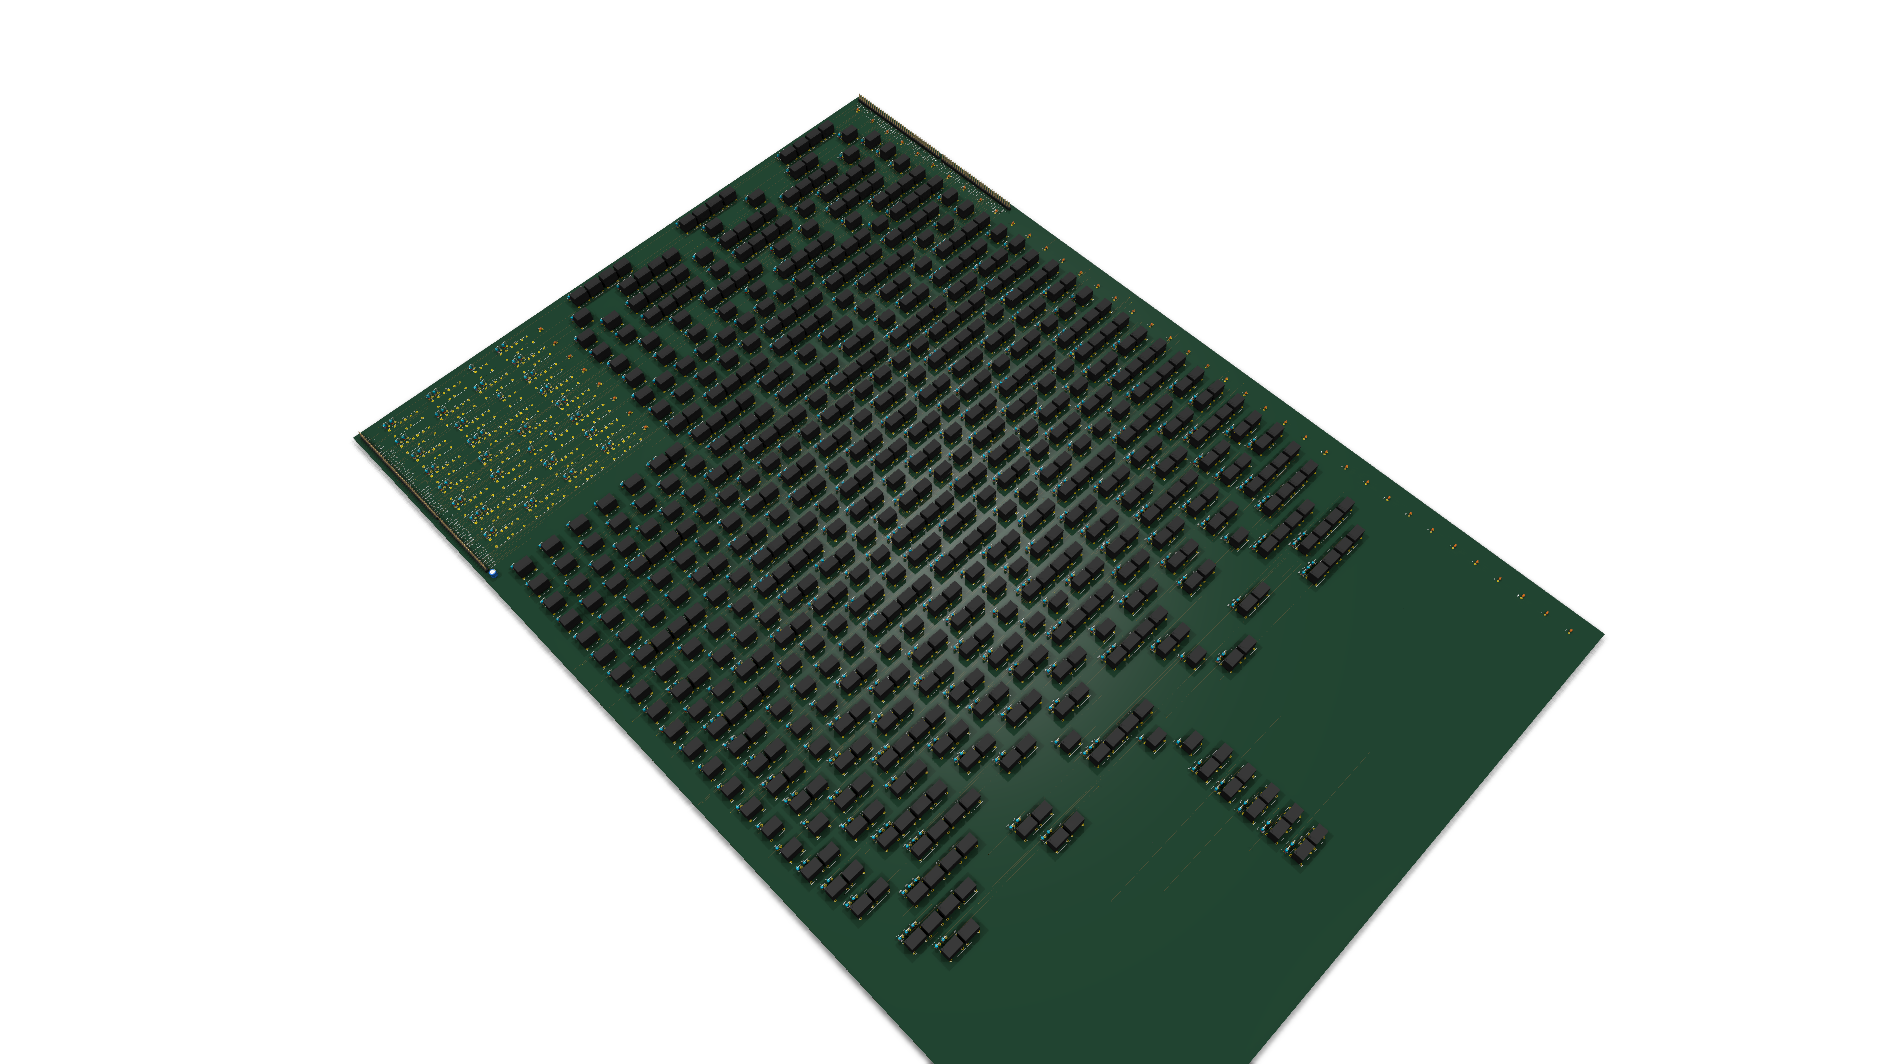
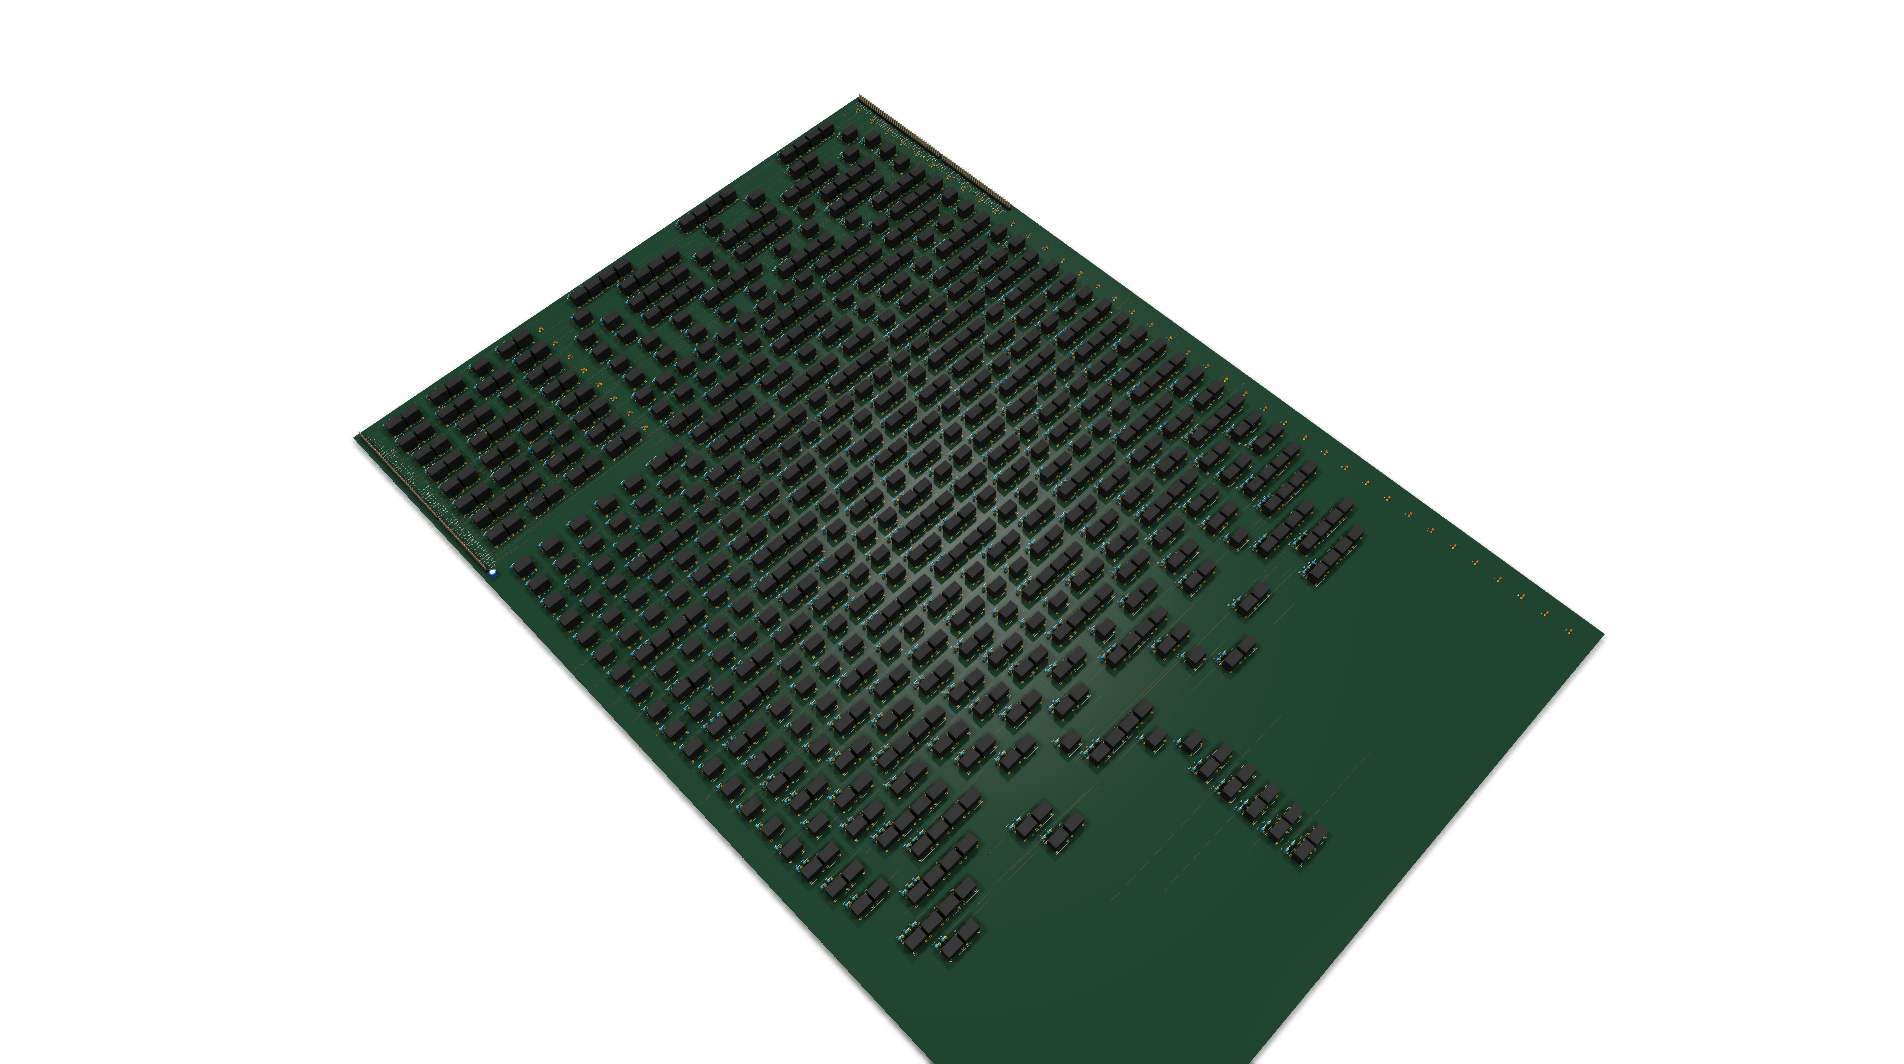
fix(hier,relay): preserva modelo 3D em footprints de macros e corrige caminho dos relés Omron G5V-1

Changed region(s): [[0.1859, 0.3102, 0.3409, 0.5273]]

diff --git a/fr4lane/kicad.py b/fr4lane/kicad.py
@@ -269,7 +269,7 @@ def _footprint(w, fp, nid, board):
               f"(uuid {_q(new_uuid())}) (effects (font (size 0.7 0.7) (thickness 0.1)) (justify {just})))")
     if fp.model:
         m = fp.model
-        mpath = m["path"].replace("${KICAD_3DMODEL_DIR}", f"${{{board.model_var}}}")
+        mpath = m["path"].replace("${KICAD_3DMODEL_DIR}", f"${{{board.model_var}}}"); mpath = mpath if mpath.startswith("${") else f"${{{board.model_var}}}" + (mpath if mpath.startswith("/") else "/" + mpath)
         off = " ".join(_n(x) for x in m.get("offset", (0, 0, 0)))
         scl = " ".join(_n(x) for x in m.get("scale", (1, 1, 1)))
         rot_m = " ".join(_n(x) for x in m.get("rotate", (0, 0, 0)))

diff --git a/fr4lane/hier.py b/fr4lane/hier.py
@@ -176,7 +176,7 @@ def _copy(board, tpl, ox, oy, netmap, cellmap):
 
     for f in tpl.footprints:
         nf = Footprint(f.ref, f.value, f.lib_name, f.x + ox, f.y + oy, courtyard=f.courtyard, rot=f.rot,
-                       silk=list(f.silk), tht=f.tht, group=cellmap.get(f.group, f.group) if f.group else "")
+                       silk=list(f.silk), tht=f.tht, group=cellmap.get(f.group, f.group) if f.group else "", model=f.model)
         for p in f.pads:
             nf.pads.append(Pad(p.num, p.rx, p.ry, p.w, p.h, p.shape, tht=p.tht, drill=p.drill,
                                net=net(p.net) if p.net else "", function=p.function, fp=nf, macro=True))
